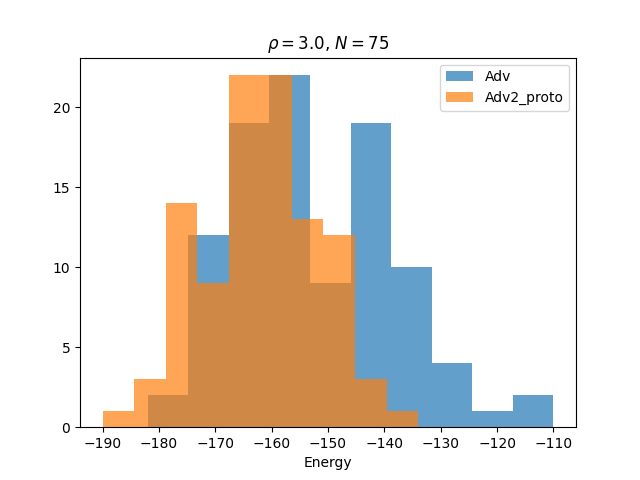
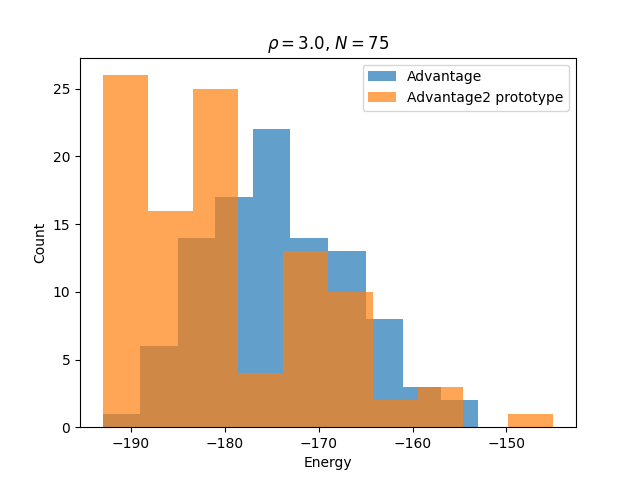
format figures

diff --git a/nae3sat_example.py b/nae3sat_example.py
@@ -59,7 +59,8 @@ for rho in rho_list:
             label=sampler.solver.name,
             alpha=0.7,
         )
-        plt.xlabel("Embedding chain length")
+        plt.xlabel("Embedding Chain Length")
+        plt.ylabel("Count")
         plt.title(f"$\\rho={rho}$, $N={num_variables}$")
         plt.legend()
         plt.savefig(f"./plots/rho_{int(rho * 100)}_chain_length.png")
@@ -83,6 +84,7 @@ for rho in rho_list:
         plt.figure(rho * 100 + 1)
         plt.hist(sampleset.record.energy, label=sampler.solver.name, alpha=0.7)
         plt.xlabel("Energy")
+        plt.ylabel("Count")
         plt.title(f"$\\rho={rho}$, $N={num_variables}$")
         plt.legend()
         plt.savefig("./plots/rho_{}_energies.png".format(int(rho * 100)))
